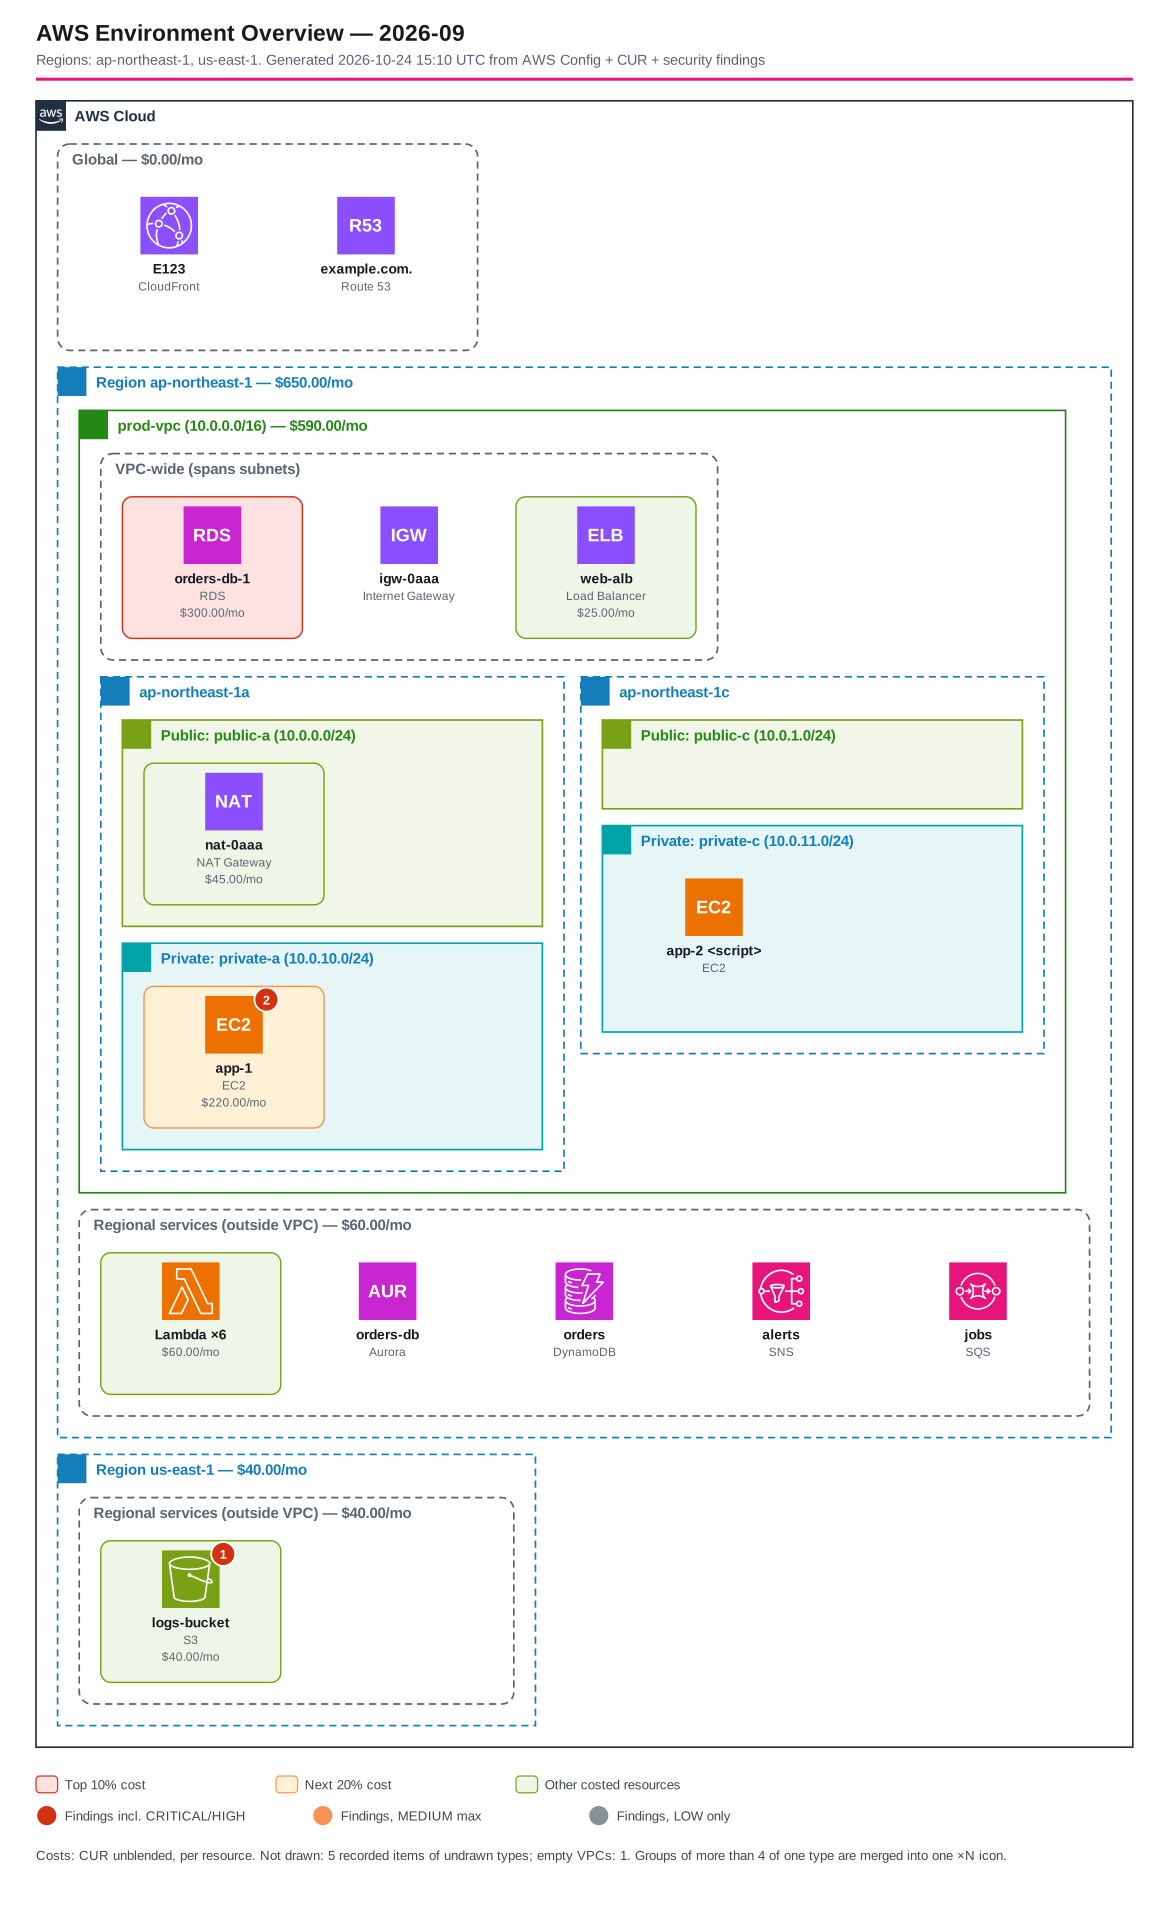
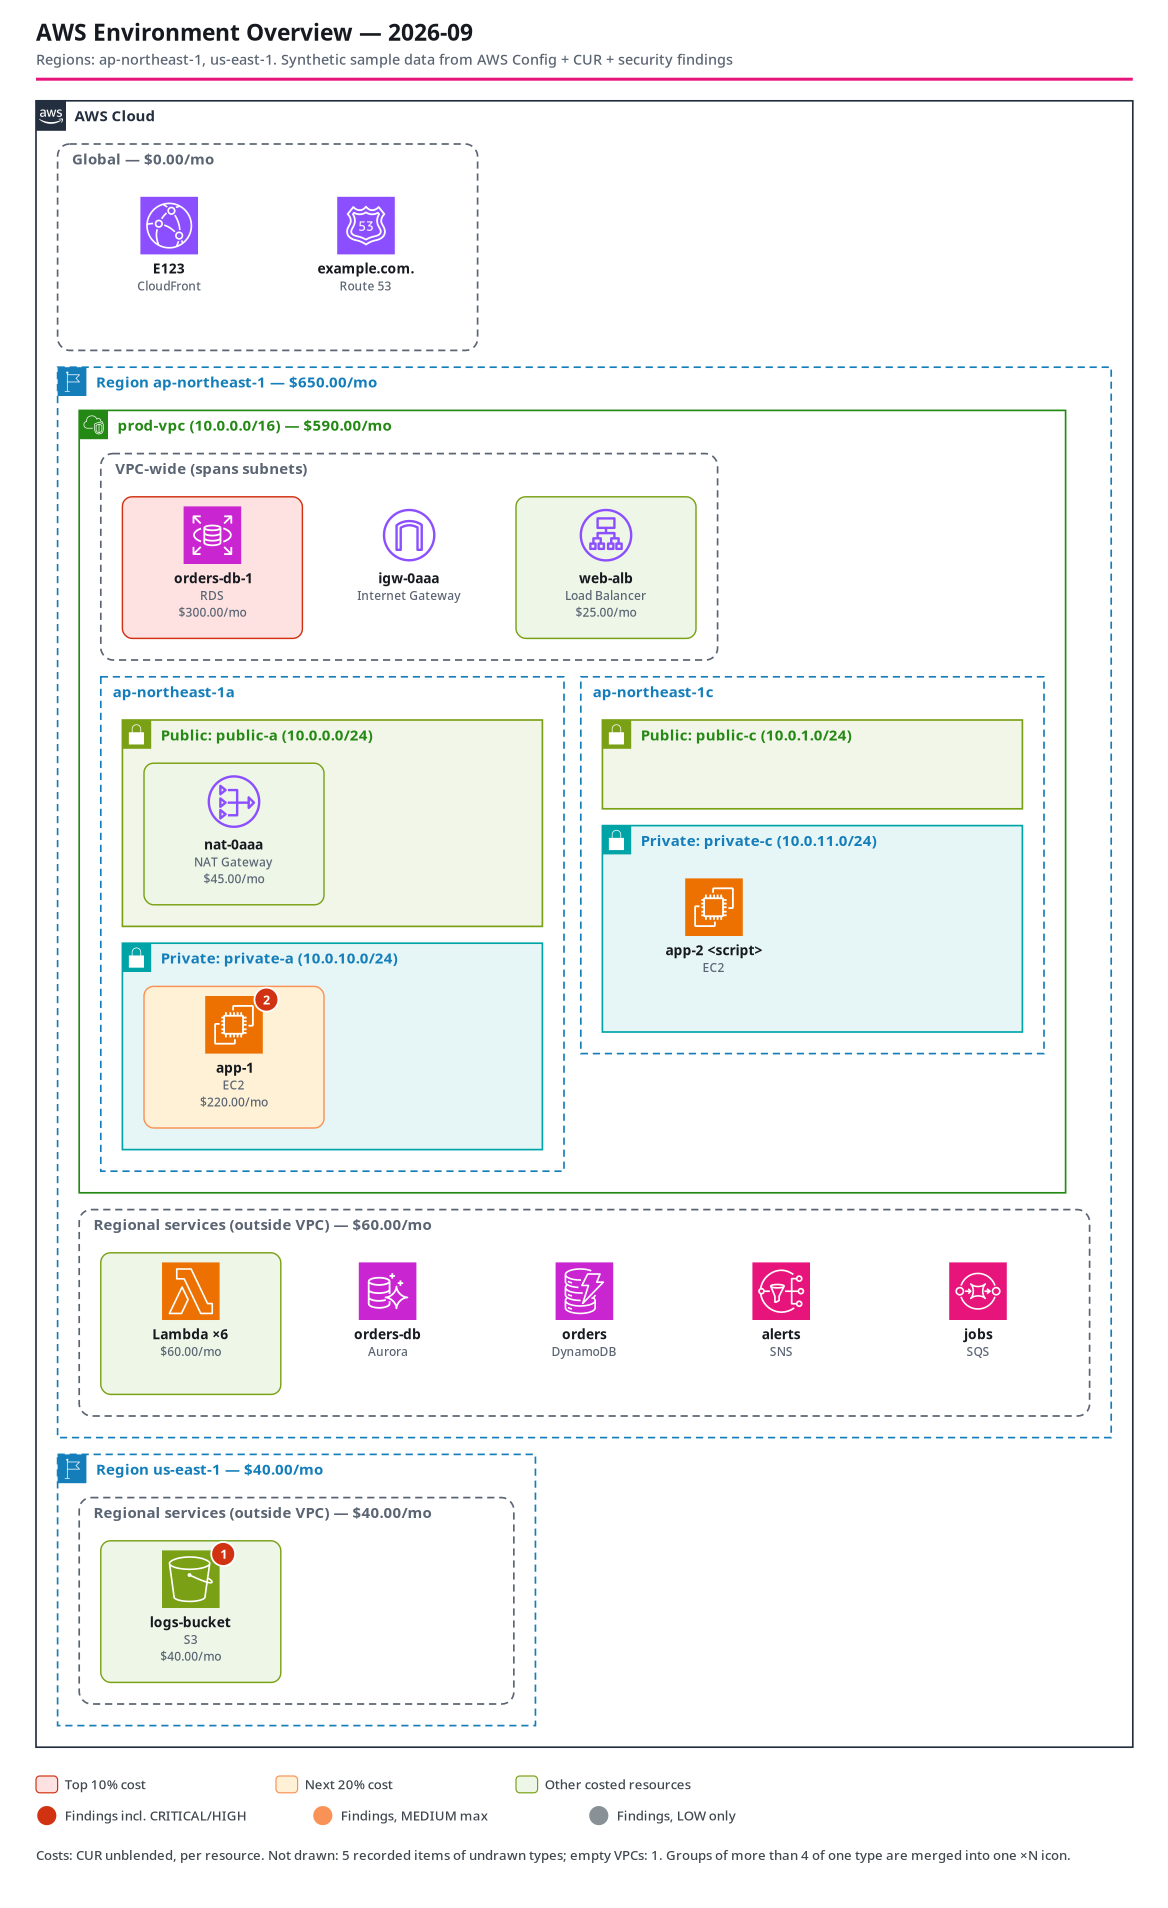
fix(aws-environment-report): 構成図の静的アイコンを公式アイコンで補完し、サブネットのグループアイコン名を修正する
- CATALOG の全タイプ(ECR、Internet Gateway など17種類)の静的アイコンを AWS Architecture Icons から icons.json に追加
- Region / VPC / サブネット枠の左上バッジを公式グリフで描画し、AZ はアイコンなしにする
- draw.io に存在しない group_public_subnet / group_private_subnet を group_security_group に修正
- アイコン未収録と不正なサブネットのアイコン名を検出するテストを追加し、README の出力例を再生成

diff --git a/infrastructure/workspaces/aws-environment-report/src/report-builder/app/diagram.py b/infrastructure/workspaces/aws-environment-report/src/report-builder/app/diagram.py
@@ -43,9 +43,9 @@ GROUP_POINTS = (
     "pointerEvents=0;collapsible=0;recursiveResize=0;shape=mxgraph.aws4.group;"
 )
 # group_aws_cloud_alt / group_region / group_vpc / group_availability_zone styles are
-# taken verbatim from this repo's own overview.drawio.svg files. The subnet group
-# icons (group_public_subnet / group_private_subnet) are draw.io's standard names
-# but are not used anywhere else in the repo yet.
+# taken verbatim from this repo's own overview.drawio.svg files. draw.io has no
+# dedicated subnet group icon: its Public/Private subnet groups use
+# group_security_group (the lock), told apart by color.
 GROUP_STYLES = {
     "cloud": GROUP_POINTS + "grIcon=mxgraph.aws4.group_aws_cloud_alt;strokeColor=#232F3E;fillColor=none;"
     "verticalAlign=top;align=left;spacingLeft=30;fontColor=#232F3E;dashed=0;",
@@ -55,12 +55,19 @@ GROUP_STYLES = {
     "verticalAlign=top;align=left;spacingLeft=30;fontColor=#248814;dashed=0;",
     "az": GROUP_POINTS + "grIcon=mxgraph.aws4.group_availability_zone;strokeColor=#147EBA;fillColor=none;"
     "verticalAlign=top;align=left;spacingLeft=30;fontColor=#147EBA;dashed=1;",
-    "public": GROUP_POINTS + "grIcon=mxgraph.aws4.group_public_subnet;strokeColor=#7AA116;fillColor=#F2F6E8;"
+    "public": GROUP_POINTS + "grIcon=mxgraph.aws4.group_security_group;strokeColor=#7AA116;fillColor=#F2F6E8;"
     "verticalAlign=top;align=left;spacingLeft=30;fontColor=#248814;dashed=0;",
-    "private": GROUP_POINTS + "grIcon=mxgraph.aws4.group_private_subnet;strokeColor=#00A4A6;fillColor=#E6F6F7;"
+    "private": GROUP_POINTS + "grIcon=mxgraph.aws4.group_security_group;strokeColor=#00A4A6;fillColor=#E6F6F7;"
     "verticalAlign=top;align=left;spacingLeft=30;fontColor=#147EBA;dashed=0;",
     "lane": "rounded=1;whiteSpace=wrap;html=1;fillColor=none;strokeColor=#5A6472;verticalAlign=top;align=left;"
     "spacingLeft=10;spacingTop=6;fontSize=12;fontStyle=1;fontColor=#5A6472;dashed=1;",
+}
+# Static-preview badge glyphs (white, from the official AWS group icons in icons.json).
+GROUP_GLYPHS = {
+    "region": "group_region",
+    "vpc": "group_vpc",
+    "public": "group_public_subnet",
+    "private": "group_private_subnet",
 }
 STATIC_GROUP = {  # stroke, fill, dashed, title color
     "cloud": ("#232F3E", "none", False, "#232F3E"),
@@ -373,9 +380,14 @@ class Renderer:
             title_x = b.x + 32
         elif b.kind == "lane":
             title_x = b.x + 12
-        else:
-            self.svg.append(f'<rect x="{b.x:.1f}" y="{b.y:.1f}" width="24" height="24" fill="{stroke}"/>')
+        elif b.kind in GROUP_GLYPHS:
+            # Badge filled with the group color plus the official white glyph, as draw.io draws grIcon.
+            glyph = ICONS[GROUP_GLYPHS[b.kind]]
+            self.svg.append(f'<rect x="{b.x:.1f}" y="{b.y:.1f}" width="24" height="24" fill="{stroke}"/>'
+                            f'<g transform="translate({b.x:.1f},{b.y:.1f}) scale({24 / glyph["w"]:.4f})">{glyph["markup"]}</g>')
             title_x = b.x + 32
+        else:  # Availability Zone: AWS draws it as a dashed box without an icon
+            title_x = b.x + 10
         self.svg.append(f'<text x="{title_x:.1f}" y="{b.y + 17:.1f}" class="groupTitle" fill="{title_color}">{esc(b.title)}</text>')
         self.vertex(b.x, b.y, b.w, b.h, esc(b.title), GROUP_STYLES[b.kind])
 

diff --git a/infrastructure/workspaces/aws-environment-report/src/report-builder/app/catalog.py b/infrastructure/workspaces/aws-environment-report/src/report-builder/app/catalog.py
@@ -7,9 +7,10 @@ would bury the diagram).
 `icon` is the draw.io AWS4 name used in the editable model. Names with
 `shape: "fixed"` are standalone shapes (`shape=mxgraph.aws4.<icon>`), the rest
 are `resourceIcon` cells (`resIcon=mxgraph.aws4.<icon>`). The static preview
-uses the real icon path from assets/icons.json when one is bundled, and a
-colored square with a short code otherwise (draw.io still renders the real
-icon from the model).
+uses the icon from assets/icons.json (official AWS Architecture Icons, or
+icons extracted from this repo's overview.drawio.svg files) and falls back to a
+colored square with a short code for a name missing there (draw.io still
+renders the real icon from the model).
 """
 from dataclasses import dataclass
 
@@ -52,7 +53,7 @@ CATALOG = {
     "AWS::EC2::NatGateway": TypeSpec("NAT Gateway", "nat_gateway", NETWORK, "NAT", "fixed"),
     "AWS::EC2::InternetGateway": TypeSpec("Internet Gateway", "internet_gateway", NETWORK, "IGW", "fixed"),
     "AWS::EC2::VPCEndpoint": TypeSpec("VPC Endpoint", "endpoints", NETWORK, "VPCE", "fixed"),
-    "AWS::EC2::TransitGateway": TypeSpec("Transit Gateway", "transit_gateway", NETWORK, "TGW", "fixed"),
+    "AWS::EC2::TransitGateway": TypeSpec("Transit Gateway", "transit_gateway", NETWORK, "TGW"),
     "AWS::ElasticLoadBalancingV2::LoadBalancer": TypeSpec("Load Balancer", "application_load_balancer", NETWORK, "ELB", "fixed"),
     "AWS::CloudFront::Distribution": TypeSpec("CloudFront", "cloudfront", NETWORK, "CF"),
     "AWS::Route53::HostedZone": TypeSpec("Route 53", "route_53", NETWORK, "R53"),

diff --git a/infrastructure/workspaces/aws-environment-report/src/report-builder/tests/test_report.py b/infrastructure/workspaces/aws-environment-report/src/report-builder/tests/test_report.py
@@ -3,7 +3,8 @@ import json
 import re
 import xml.etree.ElementTree as ET
 
-from app.diagram import Box, Leaf, build_tree, find_overlaps, render
+from app.catalog import CATALOG
+from app.diagram import GROUP_GLYPHS, GROUP_STYLES, ICONS, Box, Leaf, build_tree, find_overlaps, render
 from app.handler import build, previous_month
 from app.inventory import build_inventory
 from app.summary import mask
@@ -94,6 +95,18 @@ def test_svg_is_valid_and_editable():
     assert stats["overlaps"] == 0
     assert "<script>" not in svg  # resource names are escaped
     assert "resIcon=mxgraph.aws4.ec2" in html.unescape(m.group(1))
+
+
+def test_every_drawn_type_and_group_badge_has_a_static_icon():
+    # A missing entry falls back to a colored square with a short code.
+    assert {spec.icon for spec in CATALOG.values()} - set(ICONS) == set()
+    assert set(GROUP_GLYPHS.values()) - set(ICONS) == set()
+
+
+def test_subnet_groups_use_draw_io_icon_names():
+    # draw.io has no group_public_subnet / group_private_subnet stencil.
+    for kind in ("public", "private"):
+        assert "grIcon=mxgraph.aws4.group_security_group;" in GROUP_STYLES[kind]
 
 
 def test_svg_without_cost_data_has_no_cost_labels():

diff --git a/infrastructure/workspaces/aws-environment-report/README.ja.md b/infrastructure/workspaces/aws-environment-report/README.ja.md
@@ -210,7 +210,7 @@ python3 -m venv .venv && .venv/bin/pip install cairosvg==2.7.1 pytest
 ## ⚙ カスタマイズと拡張
 
 - **描画するリソースタイプ**: `src/report-builder/app/catalog.py`の`CATALOG`に追加します。追加しないタイプも、インベントリ表では件数が出ます
-- **静的プレビューのアイコン**: `app/assets/icons.json`には、このリポジトリの既存の`overview.drawio.svg`から抽出した実物のアイコンを入れています。収録していないサービスは、色付きの四角+略称で表示します(draw.ioで開けば`resIcon`の正式なアイコンで表示されます)
+- **静的プレビューのアイコン**: `app/assets/icons.json`には、`CATALOG`の全タイプとRegion / VPC / サブネットのグループバッジのアイコンを収録しています。出典は、このリポジトリの既存の`overview.drawio.svg`と、公式の[AWS Architecture Icons](https://aws.amazon.com/architecture/icons/)(2026年7月版)です。`CATALOG`にアイコンなしでタイプを追加すると色付きの四角+略称で表示されますが(draw.ioでは`resIcon`の正式なアイコンで表示)、その場合はテストが失敗します
 - **公開経路**(未実装): `delivery.mode`に`internal-alb` / `cloudfront`を追加する想定です。どちらも公開用の別バケットを使います。CloudFrontの場合はWAFとLambda@Edge(us-east-1)による認証が必要です
 - **データの流れの矢印**(未実装): 現在は収容関係だけを描いています。EventBridgeルールのターゲット、Lambdaのイベントソースマッピングなどから、必要な流れだけを追加してください
 
@@ -230,6 +230,7 @@ python3 -m venv .venv && .venv/bin/pip install cairosvg==2.7.1 pytest
 | Bedrock(`jp.anthropic.claude-sonnet-4-6`) | `summaryStatus: OK`。`OK`以外のデータソースが欠けていることを要約に明記 |
 | `force`なし / `{}`での再実行 | `SKIP`(「report for this month already exists」)。`{}`はAsia/Tokyoでの前月に解決 |
 | Webhook | 初期値のシークレット → スキップ。`http://`のURL → 理由付きでスキップし、URL自体はCloudWatch Logsに出ない |
+| アイコン | ECRとInternet GatewayがHTML / PNGで色付きの四角になっていた(静的アイコン未収録)。`CATALOG`の全アイコンを収録した。全名前をdraw.ioのAWS4ステンシル(v24.7.17)と照合した結果、`group_public_subnet` / `group_private_subnet`は存在しなかったため、リポジトリ内の他の図と同じ`group_security_group`に修正 |
 
 既知の制約: PNGはDejaVu Sansで描画するため、CJKのグリフがなく、`diagram.png`では日本語のリソース名が空白になります(draw.io形式のSVGは影響を受けません)。Lambdaのベースイメージが使うAmazon Linux 2023のリポジトリにはCJKフォントのパッケージがないため、必要ならNoto Sans JPなどのフォントをイメージに同梱してください。
 
@@ -240,8 +241,7 @@ python3 -m venv .venv && .venv/bin/pip install cairosvg==2.7.1 pytest
 1. **CURの確定判定**: `bill_invoice_id`が確定前は空で、確定後に入るという前提です。実データで確認してから運用してください
 2. **CURのパス構成**: `<prefix>/<exportName>/data/BILLING_PERIOD=YYYY-MM/*.parquet`を前提にしています
 3. **指摘の実データ**: Security Hub CSPM、GuardDuty、Inspectorは「未有効」の経路だけを確認しました。指摘を読み取る経路は未確認です
-4. **draw.ioのアイコン名**: リポジトリ内の既存図で使われていない`resIcon`名(`rds`、`aurora`、`elasticache`、`eks`、`elastic_file_system`、`route_53`、`kinesis_data_streams`、`auto_scaling2`)は未確認です。`ecr`、`group_public_subnet` / `group_private_subnet`は実行で出力されましたが、確認したのは静的PNGだけで、draw.ioで開いての確認はしていません
-5. **Bedrockのモデル ID**: 検証アカウントには`jp.anthropic.claude-sonnet-4-6`がありましたが、利用するアカウントで必ず確認してください
+4. **Bedrockのモデル ID**: 検証アカウントには`jp.anthropic.claude-sonnet-4-6`がありましたが、利用するアカウントで必ず確認してください
 
 ## 📚 参考資料
 

diff --git a/infrastructure/workspaces/aws-environment-report/README.md b/infrastructure/workspaces/aws-environment-report/README.md
@@ -111,7 +111,7 @@ python3 -m venv .venv && .venv/bin/pip install cairosvg==2.7.1 pytest
 ## ⚙ Customization
 
 - Drawn resource types: `CATALOG` in `src/report-builder/app/catalog.py` (undrawn types still appear in the inventory table)
-- Static-preview icons: `app/assets/icons.json` holds real icons extracted from this repo's own `overview.drawio.svg` files; other services show as a colored square with a short code (draw.io renders the real `resIcon`)
+- Static-preview icons: `app/assets/icons.json` holds a real icon for every type in `CATALOG` and the Region / VPC / subnet group badges, taken from this repo's own `overview.drawio.svg` files or the official [AWS Architecture Icons](https://aws.amazon.com/architecture/icons/) package (July 2026 release). A type added to `CATALOG` without an icon shows as a colored square with a short code (draw.io still renders the real `resIcon`); a test fails in that case
 - Delivery (not implemented): `internal-alb` / `cloudfront` modes with a separate publish bucket; CloudFront needs WAF and Lambda@Edge (us-east-1) authentication
 - Data-flow arrows (not implemented): only containment is drawn today
 
@@ -131,6 +131,7 @@ One deployment to a single account (`ap-northeast-1`, targets `us-east-1` + `ap-
 | Bedrock (`jp.anthropic.claude-sonnet-4-6`) | `summaryStatus: OK`; the summary called out every non-`OK` source |
 | Re-run without `force` / with `{}` | `SKIP` ("report for this month already exists"); `{}` resolved to the previous month in Asia/Tokyo |
 | Webhook | Default secret → skipped; `http://` URL → skipped with reason, the URL itself not in CloudWatch Logs |
+| Icons | ECR and Internet Gateway showed as colored squares in the HTML/PNG (no static icon bundled). Every `CATALOG` icon is now bundled. Checking all names against draw.io's AWS4 stencils (v24.7.17) found `group_public_subnet` / `group_private_subnet` do not exist; subnets now use `group_security_group` like the rest of this repo |
 
 Known limitation: the PNG uses DejaVu Sans, which has no CJK glyphs, so Japanese resource names render as blanks in `diagram.png` (the draw.io SVG is unaffected). The Amazon Linux 2023 repositories used by the Lambda base image have no CJK font package; bundle a font such as Noto Sans JP in the image if you need it.
 
@@ -139,8 +140,7 @@ Known limitation: the PNG uses DejaVu Sans, which has no CJK glyphs, so Japanese
 1. CUR finalization detection via `bill_invoice_id` (blank until final)
 2. The CUR path layout `<prefix>/<exportName>/data/BILLING_PERIOD=YYYY-MM/*.parquet`
 3. Reading actual findings from Security Hub CSPM, GuardDuty and Inspector (only their "not enabled" path was exercised)
-4. draw.io icon names not used elsewhere in this repo (`rds`, `aurora`, `elasticache`, `eks`, `elastic_file_system`, `route_53`, `kinesis_data_streams`, `auto_scaling2`), and `ecr` / `group_public_subnet` / `group_private_subnet` when opened in draw.io (they were emitted in the real run but only checked in the static PNG)
-5. The Bedrock model ID in your own account (`jp.anthropic.claude-sonnet-4-6` existed in the test account)
+4. The Bedrock model ID in your own account (`jp.anthropic.claude-sonnet-4-6` existed in the test account)
 
 ## 📚 References
 

diff --git a/docs/knowledge/aws-service-gotchas.md b/docs/knowledge/aws-service-gotchas.md
@@ -324,3 +324,24 @@ Linux 2023) has `dejavu-sans-fonts`, but `dnf list available` has no Noto CJK / 
 package. SVG text rendered to PNG with cairosvg then shows Japanese characters as blanks
 (no error). Bundle a CJK font file (e.g. Noto Sans JP) into the image if PNG output needs
 Japanese; the SVG itself is unaffected because viewers use their own fonts.
+
+## draw.io AWS4: there is no `group_public_subnet` / `group_private_subnet` stencil
+
+Found in `aws-environment-report` (October 2026). draw.io's AWS4 library has no subnet-specific
+group icon; its "Public subnet" / "Private subnet" groups are
+`shape=mxgraph.aws4.group;grIcon=mxgraph.aws4.group_security_group` (the lock), told apart
+only by `strokeColor` / `fillColor`. Every subnet in this repo's `overview.drawio.svg` files uses
+that form. An unknown `grIcon` / `resIcon` name gives no error; draw.io just draws no icon.
+
+To check a name before using it, download draw.io's stencil file
+(`https://cdn.jsdelivr.net/gh/jgraph/drawio@v24.7.17/src/main/webapp/stencils/aws4.xml`) and
+look for `<shape name="...">`: the stencil name is the style name with `_` replaced by a space
+(`internet_gateway` → `internet gateway`).
+
+For a static (non-draw.io) rendering of a service that has no example in this repo, the official
+[AWS Architecture Icons](https://aws.amazon.com/architecture/icons/) package has plain SVGs
+(no `<defs>` or CSS): `Architecture-Service-Icons_*/Arch_*/48/Arch_<Service>_48.svg` (64×64,
+colored square + white glyph, the same look as a draw.io `resourceIcon`),
+`Resource-Icons_*/Res_*/Res_<Resource>_48.svg` (48×48, colored line icon, the look of a
+fixed draw.io shape such as `internet_gateway`), and `Architecture-Group-Icons_*` (40×40
+group badges). The zip URL changes with each release; take it from that page.
